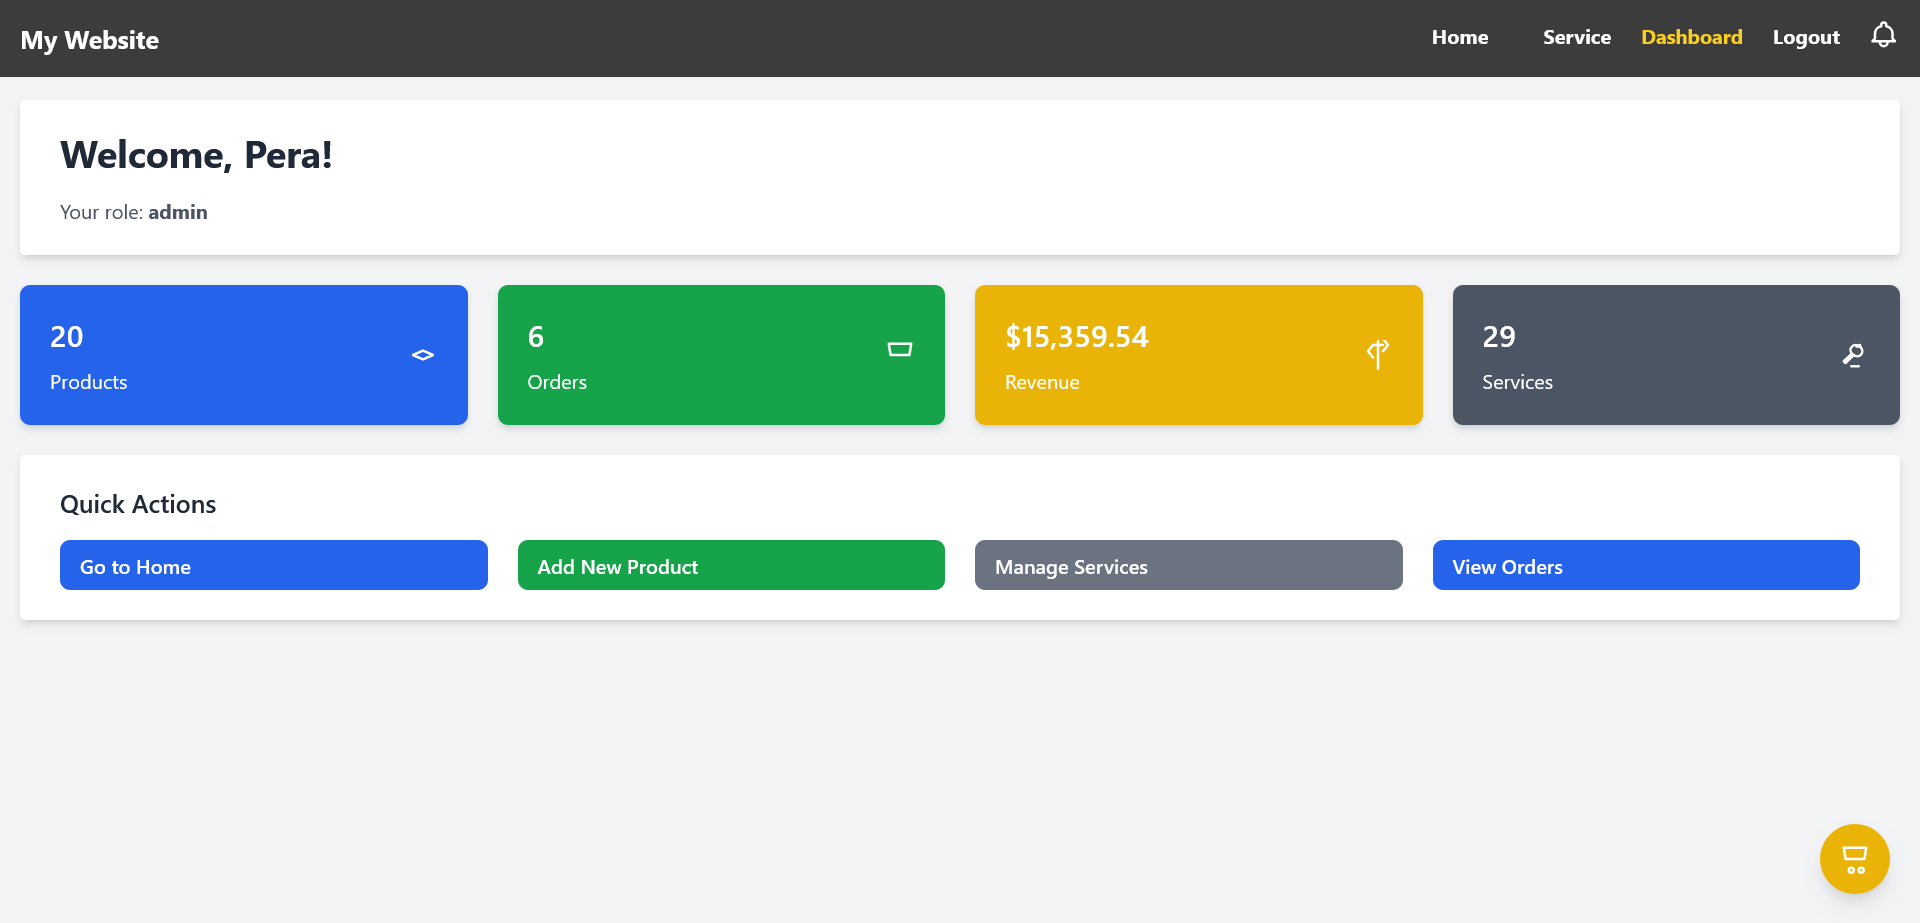
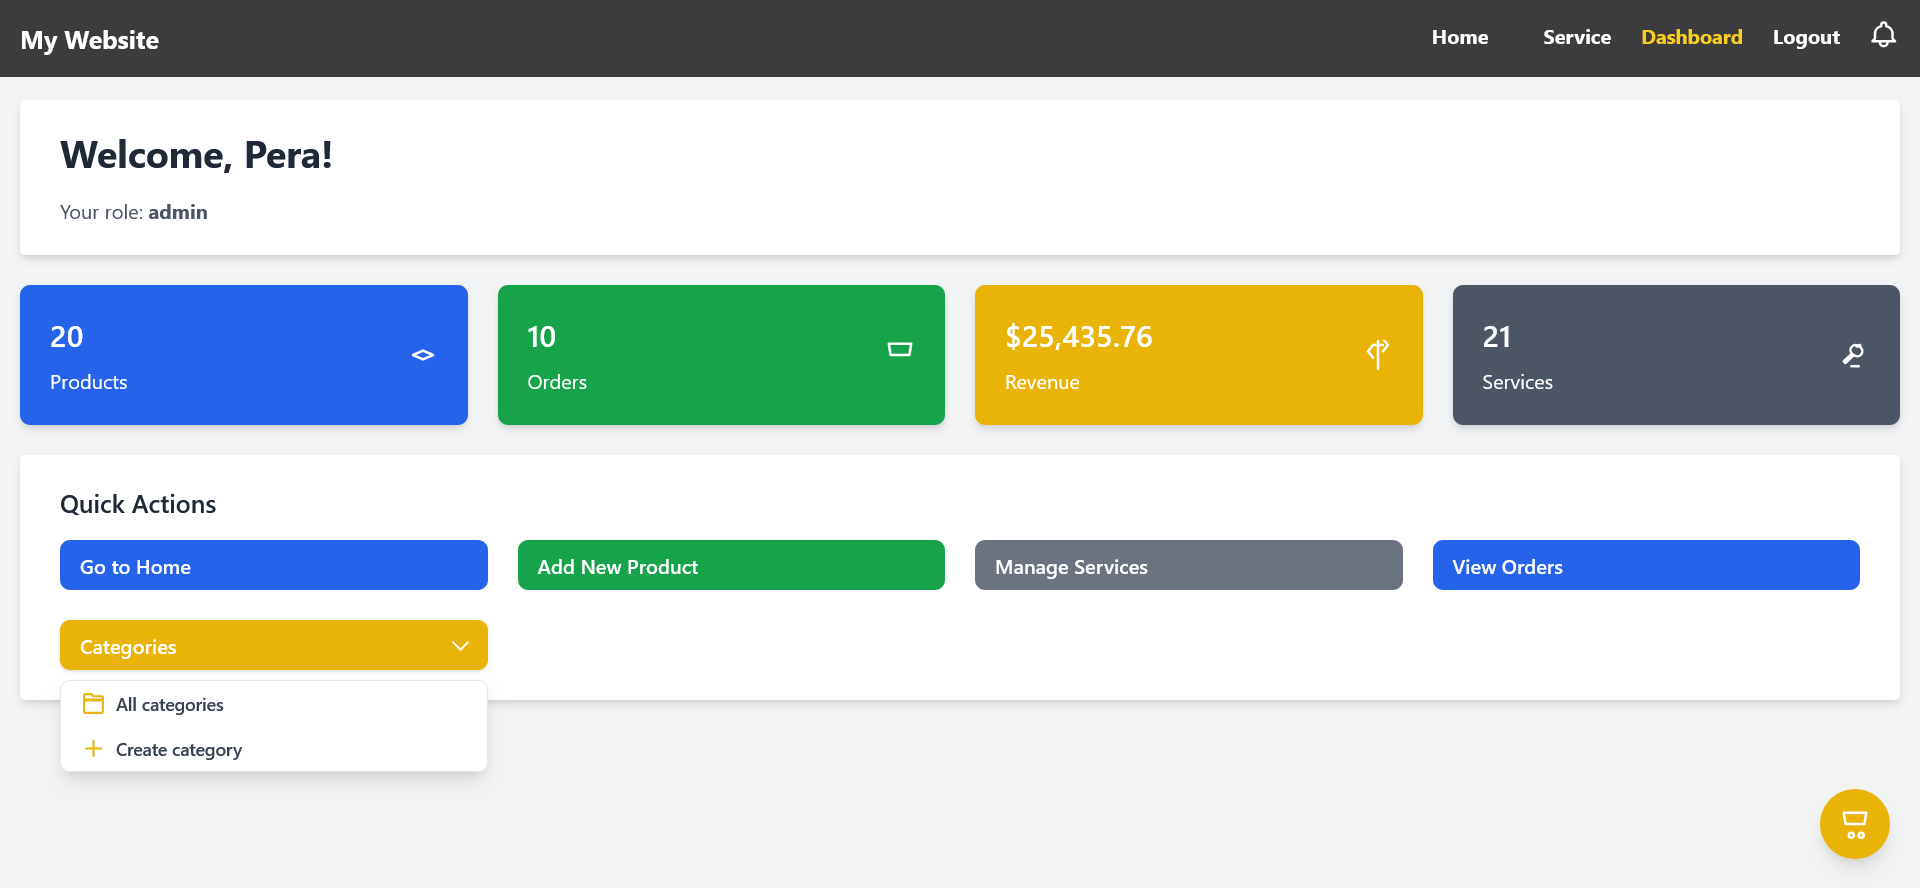
Some bug fixes

diff --git a/resources/views/categories/index.blade.php b/resources/views/categories/index.blade.php
@@ -4,73 +4,220 @@
 
 @section('content')
     <x-section>
-        <div class="flex flex-col">
-            <div class="overflow-x-auto sm:-mx-6 lg:-mx-8">
-                <div class="py-2 inline-block min-w-full sm:px-6 lg:px-8">
-                    <div class="overflow-hidden">
-                        <table class="min-w-full text-left text-sm font-light">
-                            <thead>
-                            <tr class="flex border-b font-medium dark:border-neutral-500">
-                                <th class="flex-1 px-6 py-4 text-left">ID</th>
-                                <th class="flex-1 px-6 py-4 text-center">Name</th>
-                                <th class="flex-1 px-6 py-4 text-right pr-10">Action</th>
-                            </tr>
-                            </thead>
-                            <tbody>
-                            @foreach($categories as $category)
-                                <tr class="flex items-center border-b dark:border-neutral-500">
-                                    <td class="flex-1 px-6 py-4 font-medium text-left whitespace-nowrap">{{ $category->id }}</td>
-                                    <td class="flex-1 px-6 py-4 text-center whitespace-nowrap">{{ $category->name }}</td>
-                                    <td class="flex-1 px-6 py-4 text-right whitespace-nowrap pr-10">
-                                        <div class="inline-flex space-x-2 justify-end">
-                                            <button type="button"
-                                                    onclick="openEditModal({{ $category->id }}, '{{ $category->name }}')"
-                                                    class="flex items-center bg-blue-500 hover:bg-blue-600 text-white px-3 py-1.5 rounded-md transition">
-                                                <x-icon name="edit" class="w-4 h-4 mr-1" />
-                                                Edit
-                                            </button>
-                                            <form action="{{ route('categories.destroy', ['category' => $category->id]) }}" method="POST" onsubmit="return confirm('Are you sure?');">
-                                                @csrf
-                                                @method('DELETE')
-                                                <button type="submit"
-                                                        class="flex items-center bg-red-500 hover:bg-red-600 text-white px-3 py-1.5 rounded-md transition">
-                                                    <x-icon name="trash" class="w-4 h-4 mr-1 " />
-                                                    Delete
-                                                </button>
-                                            </form>
-                                        </div>
-                                    </td>
-                                </tr>
-                            @endforeach
-                            </tbody>
+        {{-- Top bar --}}
+        <div class="flex items-center justify-between mb-4 flex-wrap gap-3">
+            <h1 class="text-2xl font-bold text-gray-800">Categories</h1>
 
-                        </table>
+            <x-primary-button href="{{ route('categories.create') }}">
+                + Add Category
+            </x-primary-button>
+        </div>
+
+        {{-- Flash --}}
+        @if(session('message'))
+            <div id="flash"
+                 class="mb-4 rounded-md border border-green-200 bg-green-50 px-4 py-3 text-green-800">
+                {{ session('message') }}
+            </div>
+        @endif
+
+        {{-- Table / Empty state --}}
+        @forelse($categories as $category)
+            @if ($loop->first)
+                <div class="flex flex-col">
+                    <div class="overflow-x-auto sm:-mx-6 lg:-mx-8">
+                        <div class="py-2 inline-block min-w-full sm:px-6 lg:px-8">
+                            <div class="overflow-hidden">
+                                <table class="min-w-full text-left text-sm font-light">
+                                    <thead>
+                                    <tr class="flex border-b font-medium">
+                                        <th class="flex-1 px-6 py-4 text-left">ID</th>
+                                        <th class="flex-1 px-6 py-4 text-center">Name</th>
+                                        <th class="flex-1 px-6 py-4 text-right pr-10">Action</th>
+                                    </tr>
+                                    </thead>
+                                    <tbody>
+                                    @endif
+
+                                    <tr class="flex items-center border-b" data-row-id="{{ $category->id }}">
+                                        <td class="flex-1 px-6 py-4 font-medium text-left whitespace-nowrap">
+                                            {{ $category->id }}
+                                        </td>
+                                        <td class="flex-1 px-6 py-4 text-center whitespace-nowrap"
+                                            id="cat-name-{{ $category->id }}">
+                                            {{ $category->name }}
+                                        </td>
+                                        <td class="flex-1 px-6 py-4 text-right whitespace-nowrap pr-10">
+                                            <div class="inline-flex space-x-2 justify-end">
+                                                <button type="button"
+                                                        onclick="openEditModal({{ $category->id }}, @js($category->name))"
+                                                        class="flex items-center bg-blue-500 hover:bg-blue-600 text-white px-3 py-1.5 rounded-md transition">
+                                                    <x-icon name="edit" class="w-4 h-4 mr-1" />
+                                                    Edit
+                                                </button>
+
+                                                <form action="{{ route('categories.destroy', $category) }}"
+                                                      method="POST"
+                                                      onsubmit="return confirm('Are you sure?');">
+                                                    @csrf
+                                                    @method('DELETE')
+                                                    <button type="submit"
+                                                            class="flex items-center bg-red-500 hover:bg-red-600 text-white px-3 py-1.5 rounded-md transition">
+                                                        <x-icon name="trash" class="w-4 h-4 mr-1" />
+                                                        Delete
+                                                    </button>
+                                                </form>
+                                            </div>
+                                        </td>
+                                    </tr>
+
+                                    @if ($loop->last)
+                                    </tbody>
+                                </table>
+                            </div>
+                        </div>
                     </div>
                 </div>
+            @endif
+        @empty
+            <div class="text-center text-gray-600">
+                No categories yet.
+                <a href="{{ route('categories.create') }}" class="text-blue-600 hover:text-blue-800 font-semibold">
+                    Create the first one
+                </a>
             </div>
-        </div>
+        @endforelse
     </x-section>
 
-    <!-- Modal -->
-    <div id="editModal" class="fixed inset-0 bg-black bg-opacity-50 hidden justify-center items-center z-50">
-        <div class="bg-white p-6 rounded-md shadow-md w-full max-w-md">
-            <h2 class="text-lg font-bold mb-4">Edit Category</h2>
+    {{-- Modal --}}
+    <div id="editModal"
+         class="fixed inset-0 bg-black/50 hidden justify-center items-center z-50"
+         role="dialog" aria-modal="true" aria-labelledby="editModalTitle">
+        <div class="bg-white p-6 rounded-md shadow-md w-full max-w-md"
+             onclick="event.stopPropagation()">
+            <h2 id="editModalTitle" class="text-lg font-bold mb-4">Edit Category</h2>
+
             <form id="editCategoryForm">
                 @csrf
                 @method('PUT')
+
                 <input type="hidden" name="id" id="categoryId">
+
                 <div class="mb-4">
-                    <label for="categoryName" class="block text-sm font-medium text-gray-700">Category Name</label>
+                    <label for="categoryName" class="block text-sm font-medium text-gray-700">
+                        Category Name
+                    </label>
                     <input type="text" id="categoryName" name="name"
                            class="mt-1 block w-full border border-gray-300 rounded-md shadow-sm p-2 focus:ring focus:ring-blue-200"
                            required>
+                    <p id="editError" class="text-red-600 text-sm mt-2 hidden"></p>
                 </div>
+
                 <div class="flex justify-end space-x-2">
-                    <button type="button" onclick="closeEditModal()" class="px-4 py-2 bg-gray-300 rounded hover:bg-gray-400">Cancel</button>
-                    <button type="submit" class="px-4 py-2 bg-blue-500 text-white rounded hover:bg-blue-600">Save</button>
+                    <button type="button" onclick="closeEditModal()"
+                            class="px-4 py-2 bg-gray-300 rounded hover:bg-gray-400">
+                        Cancel
+                    </button>
+                    <button id="editSubmit" type="submit"
+                            class="px-4 py-2 bg-blue-500 text-white rounded hover:bg-blue-600">
+                        Save
+                    </button>
                 </div>
             </form>
         </div>
     </div>
 
+    {{-- Inline scripts (kept simple; feel free to move to app.js) --}}
+    <script>
+        const modal = document.getElementById('editModal');
+        const form  = document.getElementById('editCategoryForm');
+        const nameInput = document.getElementById('categoryName');
+        const idInput   = document.getElementById('categoryId');
+        const errorEl   = document.getElementById('editError');
+        const submitBtn = document.getElementById('editSubmit');
+
+        function openEditModal(id, name) {
+            idInput.value = id;
+            nameInput.value = name;
+            errorEl.classList.add('hidden');
+            errorEl.textContent = '';
+            modal.classList.remove('hidden');
+            modal.classList.add('flex');
+            setTimeout(() => nameInput.focus(), 0);
+        }
+
+        function closeEditModal() {
+            modal.classList.add('hidden');
+            modal.classList.remove('flex');
+            form.reset();
+        }
+
+        // Close on backdrop click / Esc
+        modal.addEventListener('click', closeEditModal);
+        document.addEventListener('keydown', (e) => {
+            if (e.key === 'Escape' && !modal.classList.contains('hidden')) closeEditModal();
+        });
+
+        form.addEventListener('submit', async (e) => {
+            e.preventDefault();
+            const id   = idInput.value;
+            const name = nameInput.value.trim();
+            if (!name) return;
+
+            submitBtn.disabled = true;
+            submitBtn.classList.add('opacity-70', 'cursor-not-allowed');
+
+            try {
+                const res = await fetch(`{{ url('/categories') }}/${id}`, {
+                    method: 'PUT',
+                    headers: {
+                        'Content-Type': 'application/json',
+                        'Accept': 'application/json',
+                        'X-CSRF-TOKEN': window.Laravel?.csrfToken ?? '{{ csrf_token() }}',
+                    },
+                    body: JSON.stringify({ name })
+                });
+
+                if (res.ok) {
+                    const data = await res.json();
+                    // Optimistically update the name in the table
+                    const cell = document.getElementById(`cat-name-${id}`);
+                    if (cell) cell.textContent = data.category?.name ?? name;
+
+                    // Toast-ish feedback
+                    showFlash('Category updated successfully');
+
+                    closeEditModal();
+                } else if (res.status === 422) {
+                    const j = await res.json();
+                    const msg = j?.errors?.name?.[0] ?? 'Validation error';
+                    errorEl.textContent = msg;
+                    errorEl.classList.remove('hidden');
+                } else {
+                    errorEl.textContent = 'Something went wrong. Please try again.';
+                    errorEl.classList.remove('hidden');
+                }
+            } catch (err) {
+                errorEl.textContent = 'Network error. Please try again.';
+                errorEl.classList.remove('hidden');
+            } finally {
+                submitBtn.disabled = false;
+                submitBtn.classList.remove('opacity-70', 'cursor-not-allowed');
+            }
+        });
+
+        function showFlash(message) {
+            let el = document.getElementById('flash');
+            if (!el) {
+                el = document.createElement('div');
+                el.id = 'flash';
+                el.className = 'mb-4 rounded-md border border-green-200 bg-green-50 px-4 py-3 text-green-800';
+                const section = document.querySelector('main .bg-white');
+                (section?.parentNode ?? document.body).insertBefore(el, section);
+            }
+            el.textContent = message;
+            // Auto-hide after 3s
+            setTimeout(() => el.remove(), 3000);
+        }
+    </script>
 @endsection

diff --git a/resources/views/categories/create.blade.php b/resources/views/categories/create.blade.php
@@ -1,0 +1,51 @@
+@extends('layout.app')
+
+@section('title', 'Create Category')
+
+@section('content')
+    <x-section>
+        @if($errors->any())
+            <div class="bg-red-100 border border-red-400 text-red-700 px-4 py-3 rounded relative mb-6" role="alert">
+                <strong class="font-bold">Error!</strong>
+                @foreach ($errors->all() as $error)
+                    <span class="block sm:inline"> {{ $error }} </span>
+                @endforeach
+            </div>
+        @endif
+
+        <form action="{{ route('categories.store') }}" method="POST">
+            @csrf
+            @method('POST')
+
+            <div class="flex justify-between items-center mb-6">
+                <h2 class="text-2xl font-semibold text-gray-800">Add Category</h2>
+
+                <a href="{{ route('categories.index') }}"
+                   class="text-blue-600 hover:text-blue-800">
+                    Back
+                </a>
+            </div>
+
+            <!-- Name -->
+            <div class="mb-4">
+                <x-form-label for="name">Name</x-form-label>
+                <x-form-input
+                    id="name"
+                    name="name"
+                    type="text"
+                    value="{{ old('name') }}"
+                    required
+                    placeholder="e.g. Phone Cases" />
+                @error('name')
+                <span class="text-red-600 text-sm mt-2">{{ $message }}</span>
+                @enderror
+            </div>
+
+            <!-- Submit -->
+            <button type="submit"
+                    class="w-full bg-blue-500 hover:bg-blue-600 text-white py-3 rounded-md focus:outline-none focus:ring-2 focus:ring-blue-500 transition duration-200">
+                Add category
+            </button>
+        </form>
+    </x-section>
+@endsection

diff --git a/app/Http/Controllers/CategoryController.php b/app/Http/Controllers/CategoryController.php
@@ -23,9 +23,18 @@ class CategoryController extends Controller
         return view('categories.index', compact('categories'));
     }
 
-    public function edit()
+    public function create()
     {
-        return view('categories.edit');
+        return view('categories.create');
+    }
+
+    public function store(Request $request)
+    {
+        $this->category->store($request);
+
+        return redirect()
+            ->route('categories.index')
+            ->with('message', 'Category created successfully!');
     }
 
     public function update(Request $request, Category $category)

diff --git a/app/Services/Classes/CategoryService.php b/app/Services/Classes/CategoryService.php
@@ -17,7 +17,13 @@ class CategoryService implements ICategoryService
 
     public function store(Request $request): void
     {
-        // TODO: Implement store() method.
+        $validated = $request->validate([
+            'name' => 'required|string|max:255|unique:categories,name',
+        ]);
+
+        Category::create([
+            'name' => $validated['name'],
+        ]);
     }
 
     public function update(Request $request, Category $category): void

diff --git a/resources/views/welcome.blade.php b/resources/views/welcome.blade.php
@@ -4,7 +4,7 @@
 
 @section('content')
     <x-section>
-        This is the welcome page<br />
+        This is the welcome page<br/>
         Here will be displayed products
 
         @auth
